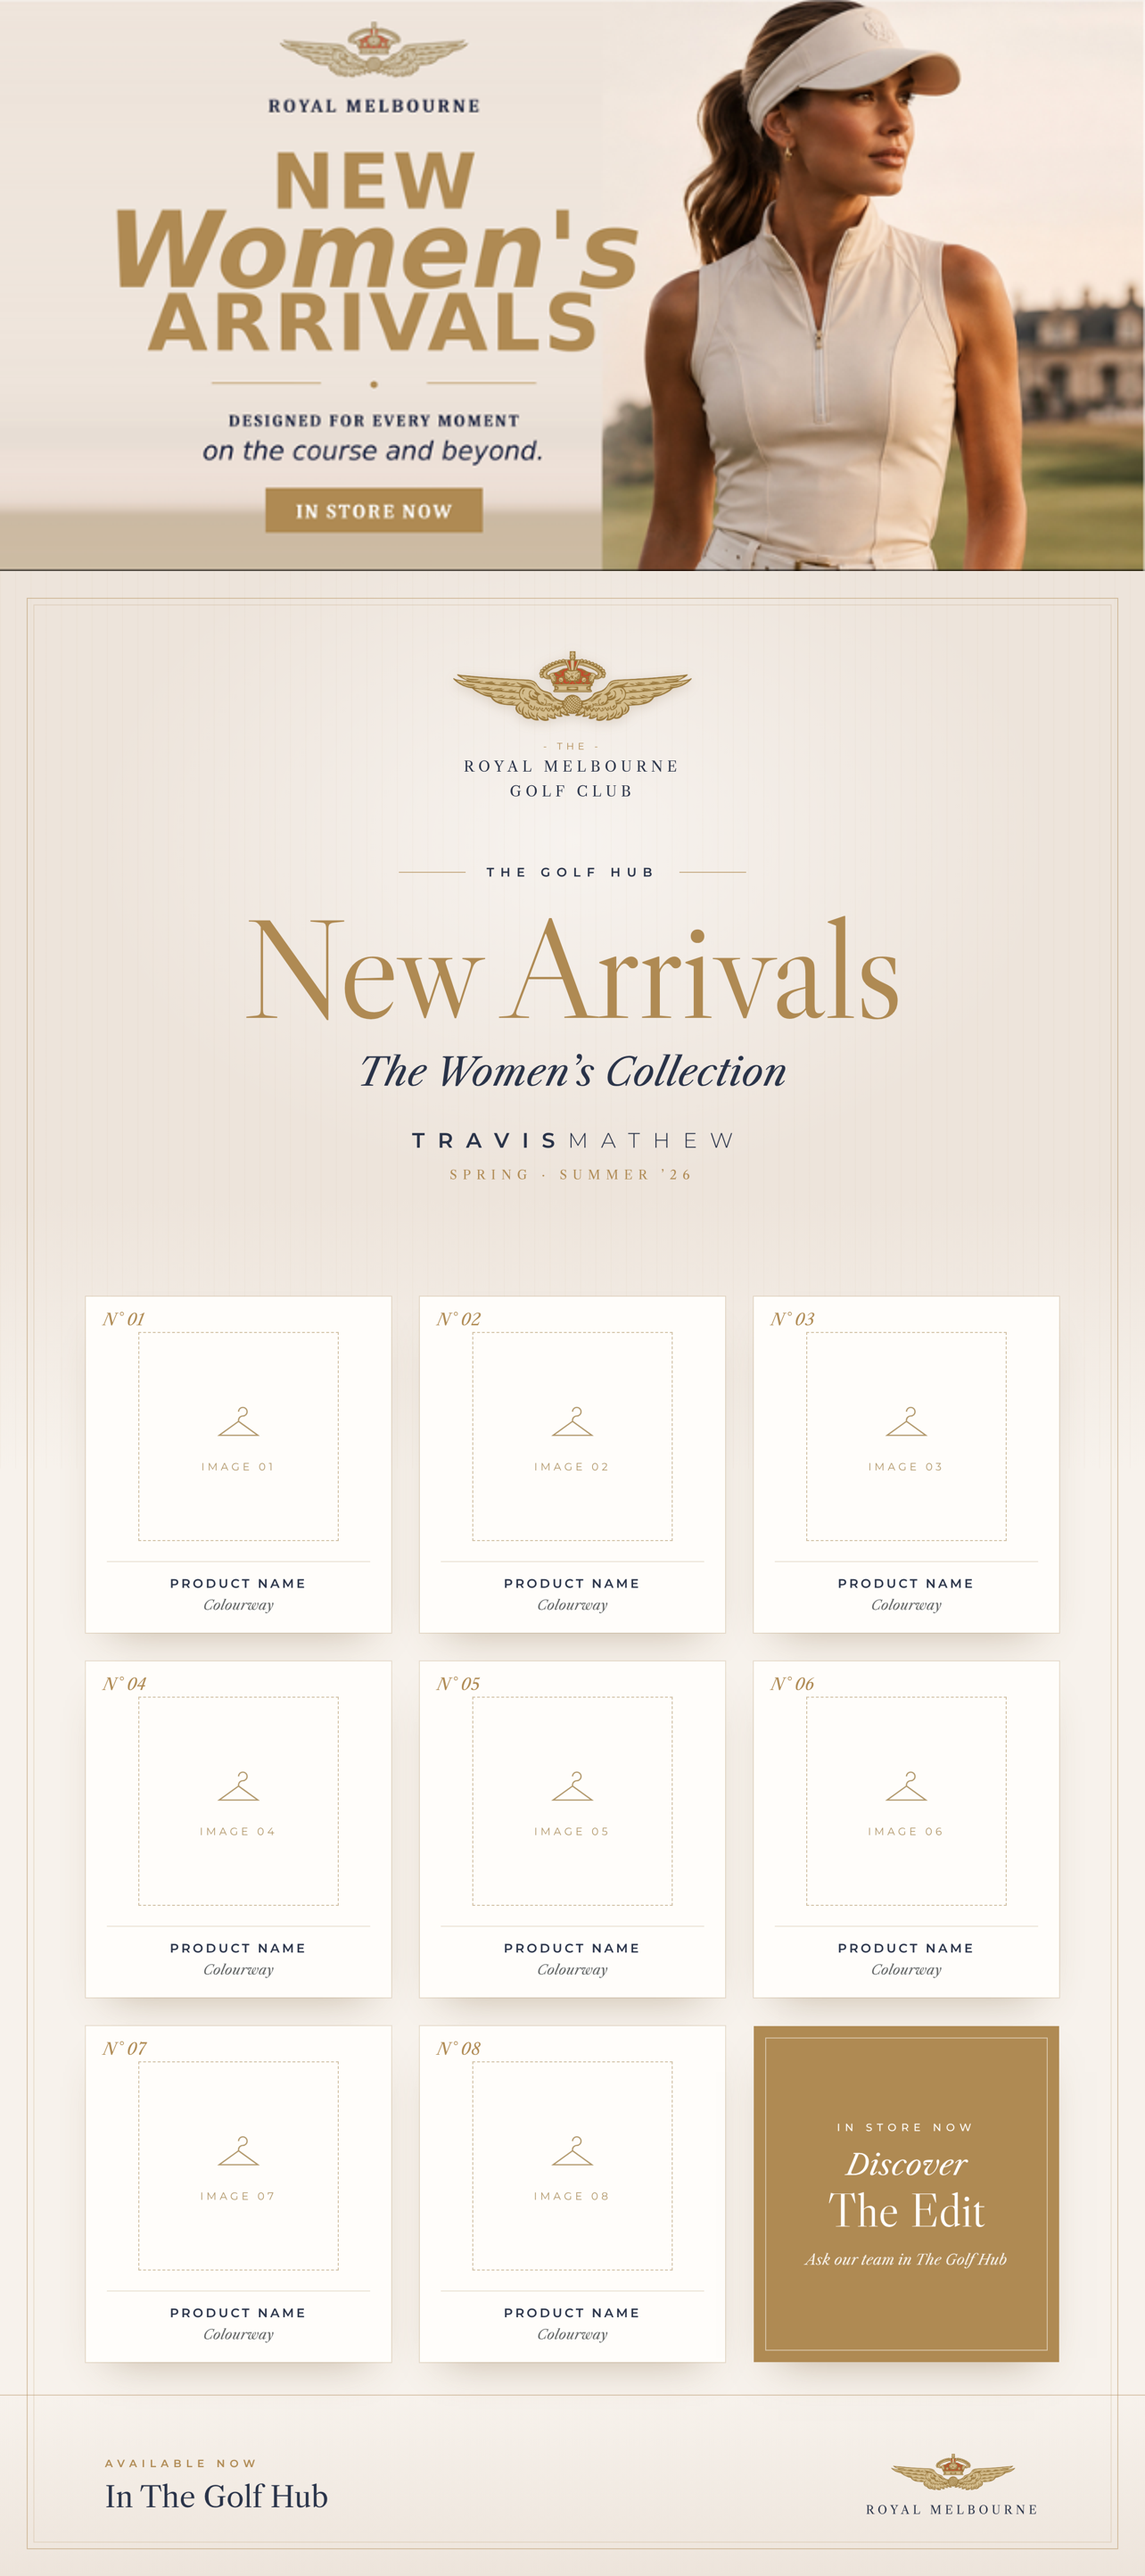
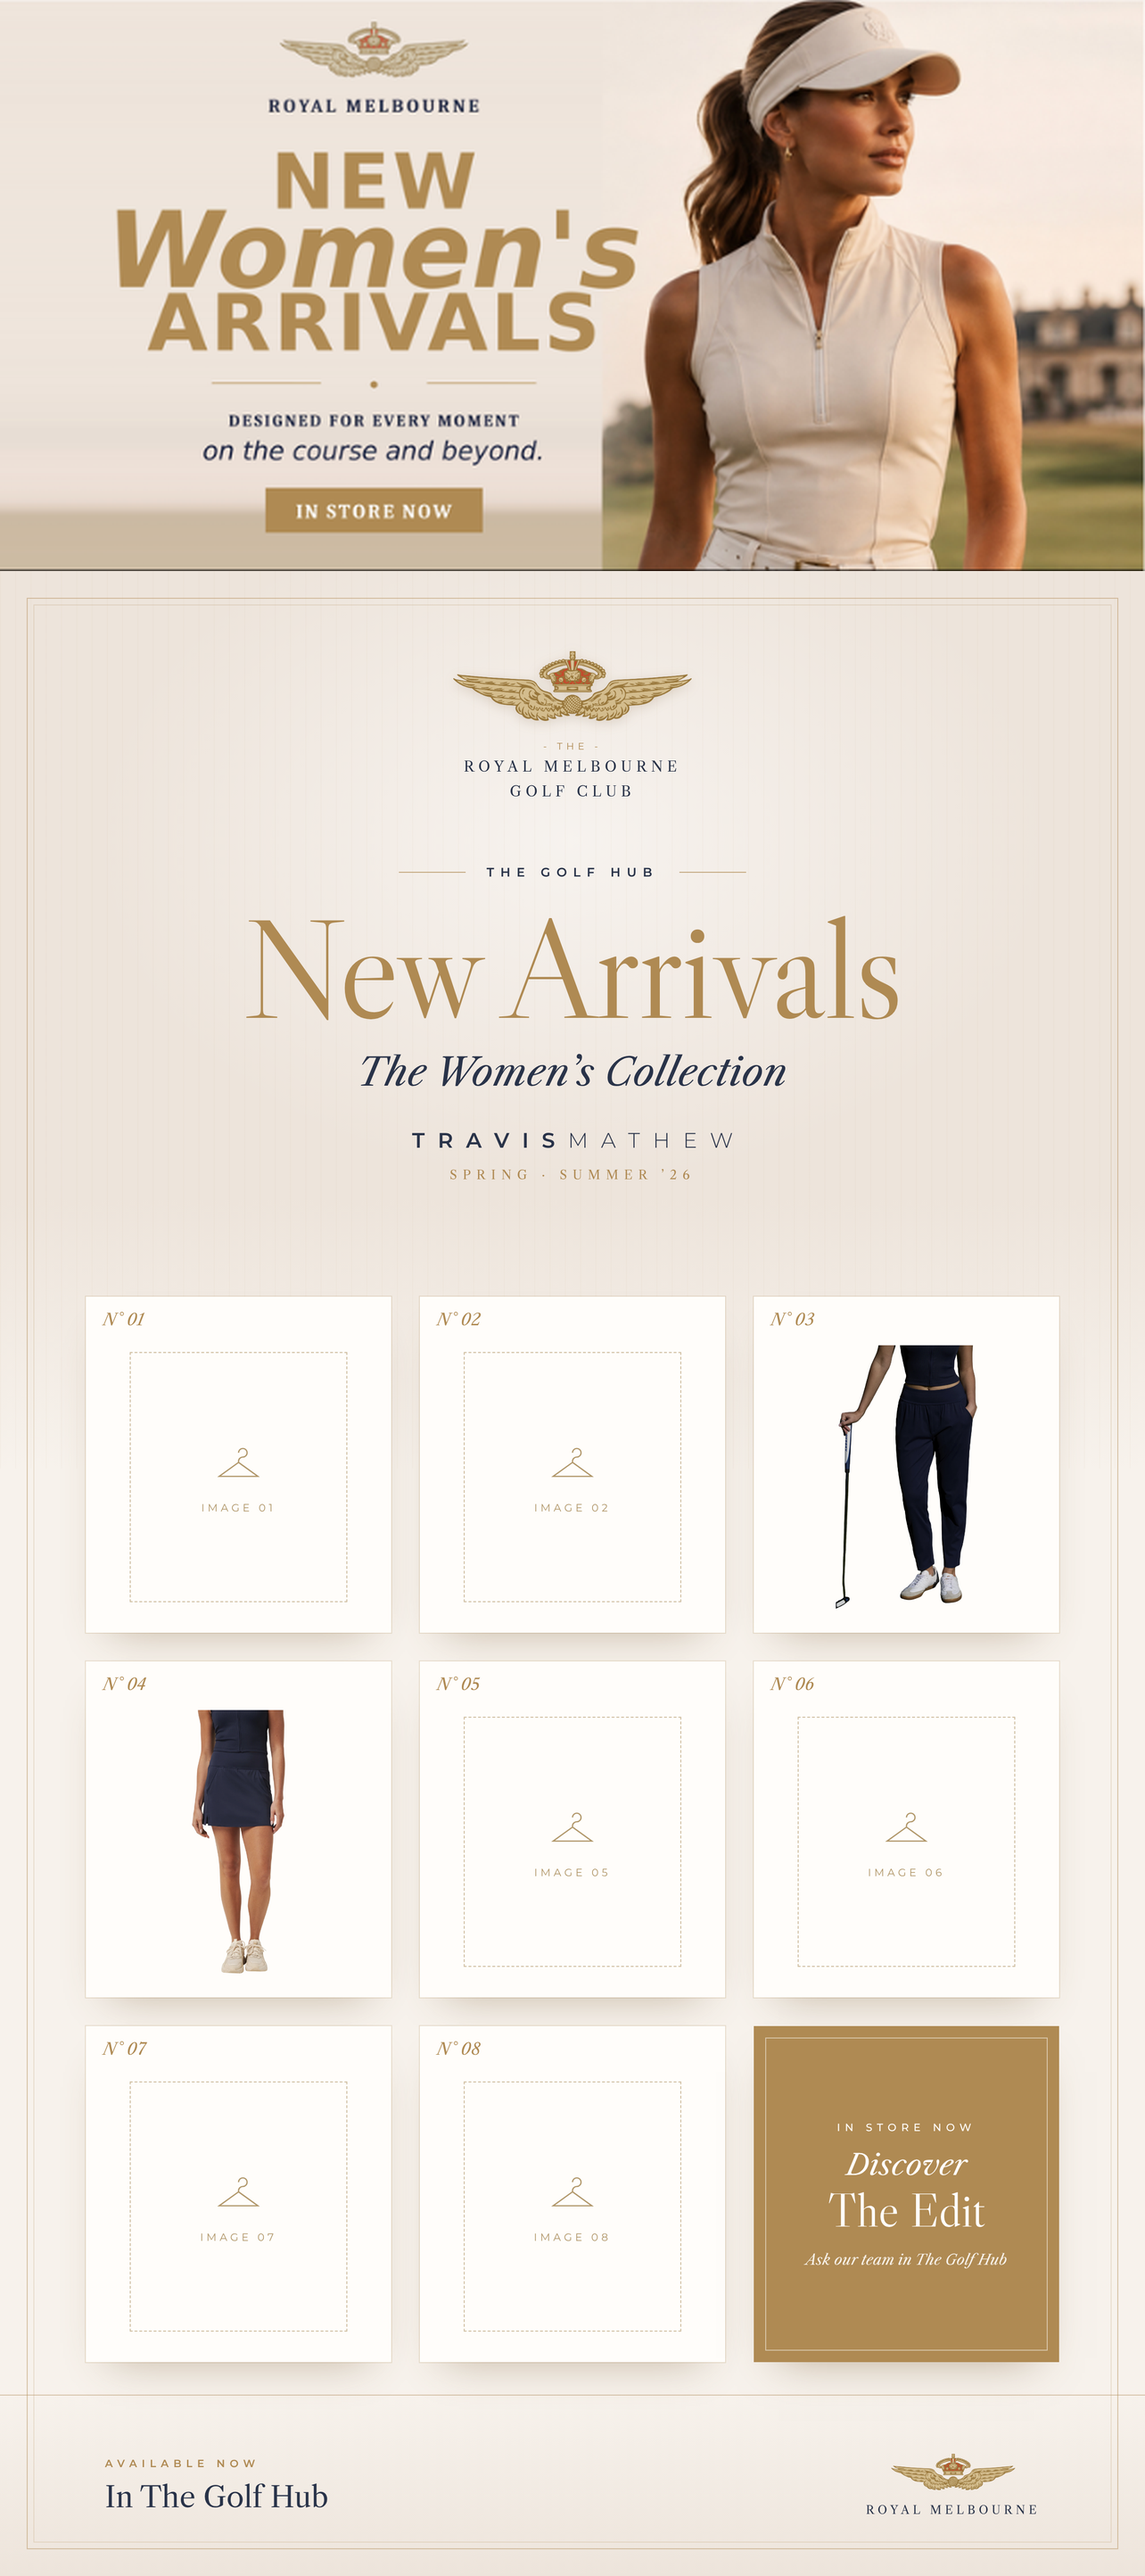
Add navy skort cutout, remove item names from flyer, enlarge product images
Claude-Session: https://claude.ai/code/session_01C87gBsFEbBQ9AUCd14pVs4

diff --git a/new-arrivals.html b/new-arrivals.html
@@ -116,7 +116,7 @@
   .card .media {
     position: relative; flex: 1;
     display: flex; align-items: center; justify-content: center;
-    padding: 22px 26px 6px; overflow: hidden;
+    padding: 40px 14px 14px; overflow: hidden;
   }
   .card .media img {
     max-width: 100%; max-height: 100%; object-fit: contain;
@@ -208,16 +208,16 @@
 </div>
 
 <script>
-  // ---- Edit products here: image path, name and colour/detail line ----
+  // ---- Product images (no names shown, by request) ----
   const products = [
-    { img: "", name: "Product Name", detail: "Colourway" },
-    { img: "", name: "Product Name", detail: "Colourway" },
-    { img: "products/canva/03-navy-pant.png", name: "Women's Pant", detail: "Navy" },
-    { img: "", name: "Product Name", detail: "Colourway" },
-    { img: "", name: "Product Name", detail: "Colourway" },
-    { img: "", name: "Product Name", detail: "Colourway" },
-    { img: "", name: "Product Name", detail: "Colourway" },
-    { img: "", name: "Product Name", detail: "Colourway" },
+    { img: "" },
+    { img: "" },
+    { img: "products/canva/03-navy-pant.png" },
+    { img: "products/canva/04-navy-skort.png" },
+    { img: "" },
+    { img: "" },
+    { img: "" },
+    { img: "" },
   ];
 
   const hanger = '<svg viewBox="0 0 48 48"><path d="M24 12a4 4 0 1 1 4 4c-2 0-4 1.5-4 4v1M24 21 6 34h36L24 21Z"/></svg>';
@@ -225,13 +225,12 @@
   products.forEach((p, i) => {
     const n = String(i + 1).padStart(2, '0');
     const media = p.img
-      ? `<img src="${p.img}" alt="${p.name}">`
+      ? `<img src="${p.img}" alt="">`
       : `<div class="placeholder">${hanger}Image ${n}</div>`;
     grid.insertAdjacentHTML('beforeend', `
       <article class="card">
         <span class="num">N° ${n}</span>
         <div class="media">${media}</div>
-        <div class="info"><div class="name">${p.name}</div><div class="detail">${p.detail}</div></div>
       </article>`);
   });
   // Fill the last row with the feature tile so the grid always closes neatly
